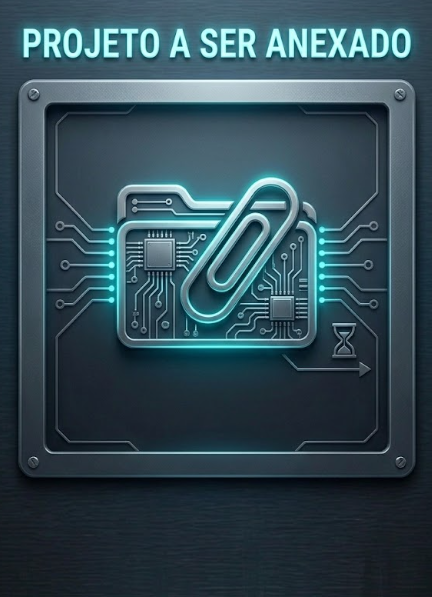
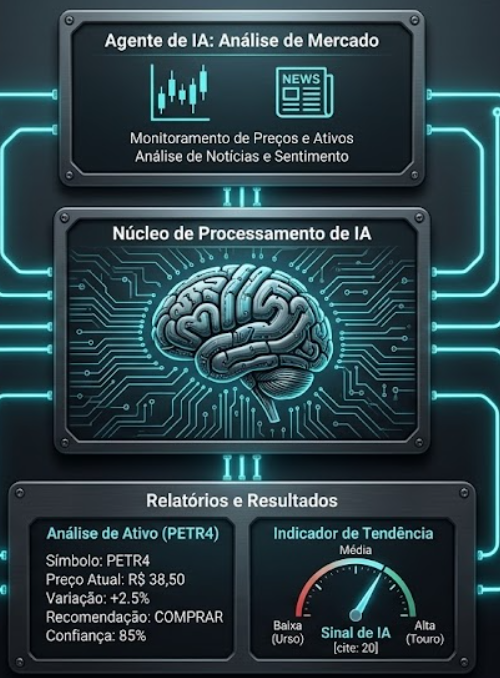
Atualizando projeto 04 - Agente IA

diff --git a/projects.html b/projects.html
@@ -295,19 +295,21 @@
                                 <div class="card-body p-0">
                                     <div class="row g-0 align-items-stretch">
                                         <div class="col-md-7 p-5">
-                                            <div class="small fw-bolder text-neon mb-2" style="font-family: var(--code-font);">[STATUS: IN PROGRESS]</div>
-                                            <h2 class="fw-bolder text-white"></h2>
-                                            <p class="text-white-50"></p>
+                                            <div class="small fw-bolder text-neon mb-2" style="font-family: var(--code-font);">[STATUS: DEPLOYED]</div>
+                                            <h2 class="fw-bolder text-white">Agente de IA para Análise do Mercado Financeiro</h2>
+                                            <p class="text-white-50">Projeto de Análise de Dados em tempo real de movimentações de ações no Mercado Financeiro utilizando a Inteligência Artificial Agêntica</p>
                                             
                                             <div class="mt-3 mb-4">
-                                                <span class="tech-tag"></span>
-                                                <span class="tech-tag"></span>
-                                                <span class="tech-tag"></span>
-                                                <span class="tech-tag"></span>
+                                                <span class="tech-tag">Anaconda | Python</span>
+                                                <span class="tech-tag">Groq | LLM</span>
+                                                <span class="tech-tag">Alpha Vantage API</span>
+                                                <span class="tech-tag">Streamlit</span>
                                             </div>
                                             <div class="d-inline-flex gap-3">
-                                                <a href="#" class="btn-glow-sm">
-                                                    <i class="bi bi-box-arrow-up-right me-1"></i>Painel a ser disponibilizado
+                                                <a href="https://agentedeiamercadofinanceiro-pnmtgqjybvvmj9hmekyiua.streamlit.app/" class="btn-glow-sm">
+                                                    <i class="bi bi-box-arrow-up-right me-1"></i>Acessar Painel - Streamlit
+                                                <a href="https://github.com/AlexandreRego/Agente_de_IA_Mercado_Financeiro/blob/main/README.md" class="btn-glow-sm">
+                                                    <i class="bi bi-box-arrow-up-right me-1"></i>Acessar Arquitetura - GitHub
                                                 </a>                                            
                                             </div>
                                         </div>
@@ -336,7 +338,7 @@
                                                 <span class="tech-tag"></span>
                                             </div>
                                             <div class="d-inline-flex gap-3">
-                                                <a href="#" class="btn-glow-sm">
+                                                <a href="" class="btn-glow-sm">
                                                     <i class="bi bi-box-arrow-up-right me-1"></i>Painel a ser disponibilizado
                                                 </a>                                            
                                             </div>